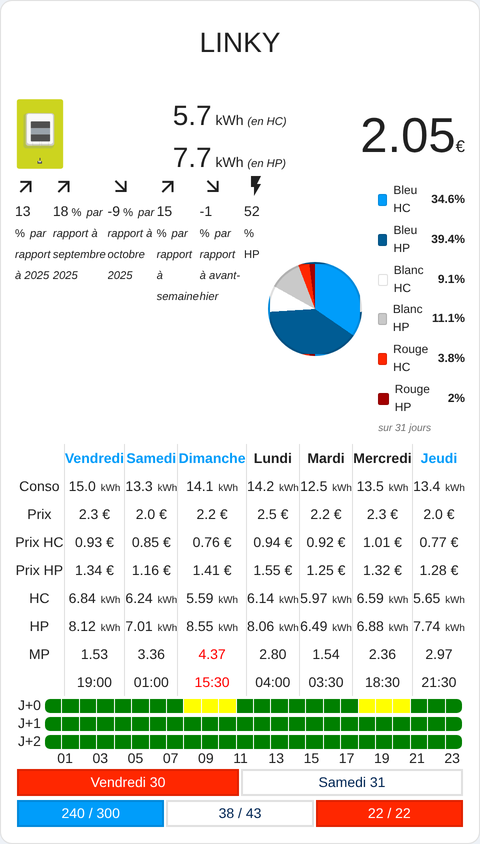
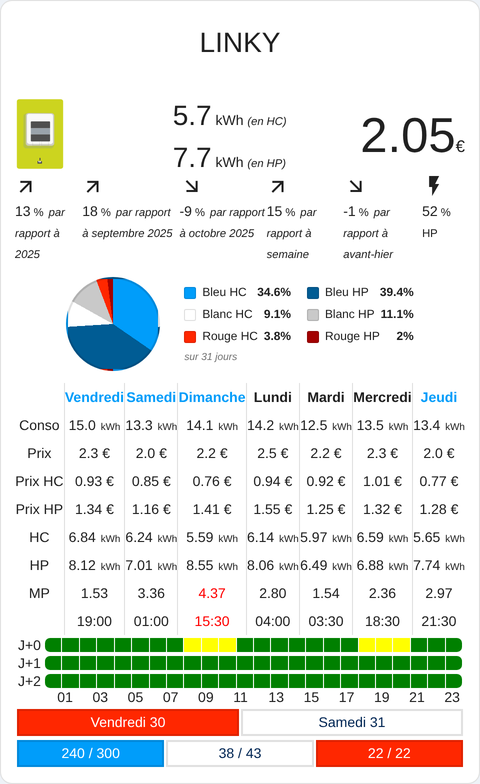
fix: camembert tempo sous les evolutions (0.3.0-beta.2)
Place a droite des evolutions, le camembert ecrasait leurs textes. Il a
maintenant sa propre ligne, centree, avec une legende sur deux colonnes.

Claude-Session: https://claude.ai/code/session_01EzrPxe6qXk5VAyNcnhyntt

Changed region(s): [[0.0312, 0.0918, 0.9688, 0.9796], [0.4688, 0.0306, 0.5938, 0.0612]]

diff --git a/dist/content-card-linky-v2.js b/dist/content-card-linky-v2.js
@@ -5,7 +5,7 @@ const html = LitElement.prototype.html;
 const css = LitElement.prototype.css;
 
 
-const CARD_VERSION = "0.3.0-beta";
+const CARD_VERSION = "0.3.0-beta.2";
 // Icône Linky : chemin HACS, remplaçable (page de démonstration)
 const LINKY_ICON = window.CONTENT_CARD_LINKY_CLASSIC_ICON || "/local/community/content-card-linky-v2/icons/linky.svg";
 // Type distinct de content-card-linky-v2, deja pris par la carte Linky New (ancien nom)
@@ -199,12 +199,12 @@ class ContentCardLinky extends LitElement {
                       </span>`
                     : html ``
                    }
-                  ${this.config.showTempoPieChart
-                    ? this.renderTempoPieChart(attributes)
-                    : html ``
-                   }
 
                 </div>
+                ${this.config.showTempoPieChart
+                  ? this.renderTempoPieChart(attributes)
+                  : html ``
+                 }
                 ${this.renderHistory(attributes.daily, attributes.unit_of_measurement, attributes.dailyweek, attributes.dailyweek_cost, attributes.dailyweek_costHC, attributes.dailyweek_costHP, attributes.dailyweek_HC, attributes.dailyweek_HP, attributes.dailyweek_MP, attributes.dailyweek_MP_over, attributes.dailyweek_MP_time, attributes.dailyweek_Tempo, this.config)}
                 ${this.renderEcoWatt(attributes, this.config)}
 				${this.renderTempo(attributes, this.config)}
@@ -1324,8 +1324,9 @@ class ContentCardLinky extends LitElement {
       .tempo-pie-chart-container {
         display: flex;
         align-items: center;
-        gap: 16px;
-        padding: 8px 0;
+        justify-content: center;
+        gap: 24px;
+        padding: 8px 0 12px;
       }
       .tempo-pie-chart {
         width: 90px;
@@ -1335,10 +1336,16 @@ class ContentCardLinky extends LitElement {
         flex-shrink: 0;
       }
       .tempo-pie-legend {
-        display: flex;
-        flex-direction: column;
-        gap: 4px;
+        display: grid;
+        grid-template-columns: auto auto;
+        gap: 4px 16px;
         font-size: 0.85em;
+      }
+      .tempo-pie-legend-item {
+        white-space: nowrap;
+      }
+      .tempo-pie-caption {
+        grid-column: 1 / -1;
       }
       .tempo-pie-legend-item {
         display: flex;

diff --git a/CHANGELOG.md b/CHANGELOG.md
@@ -1,5 +1,11 @@
 # Changelog
 
+## 0.3.0-beta.2
+
+### Bug Fixes
+
+- Camembert Tempo sur sa propre ligne, sous les évolutions, avec une légende sur deux colonnes : les textes des évolutions ne sont plus écrasés.
+
 ## 0.3.0-beta
 
 ### Features
